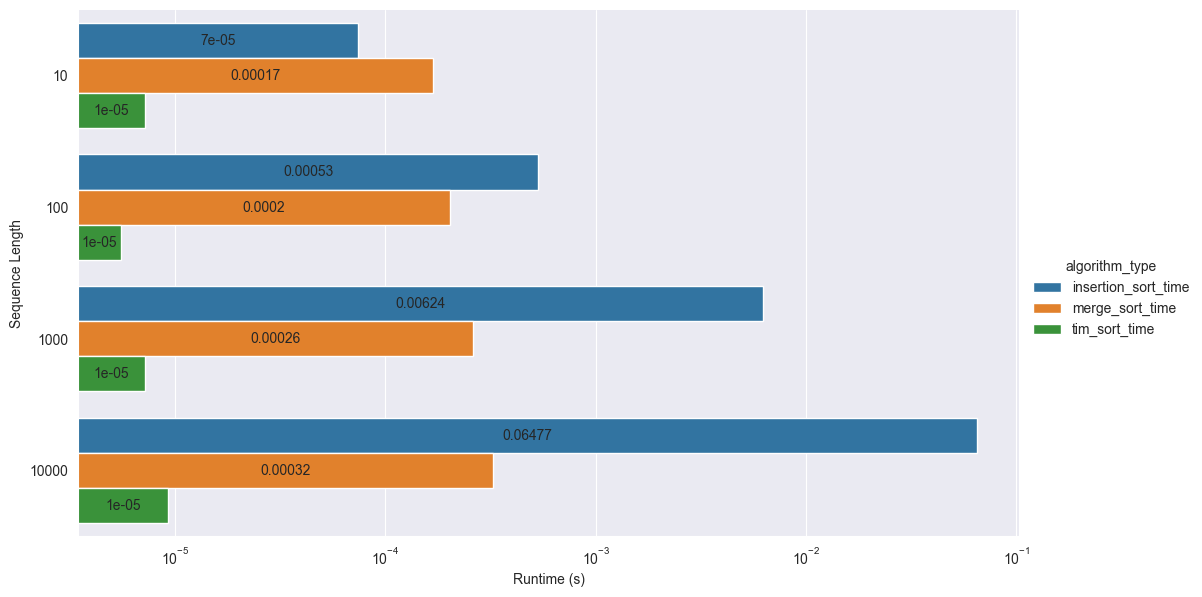
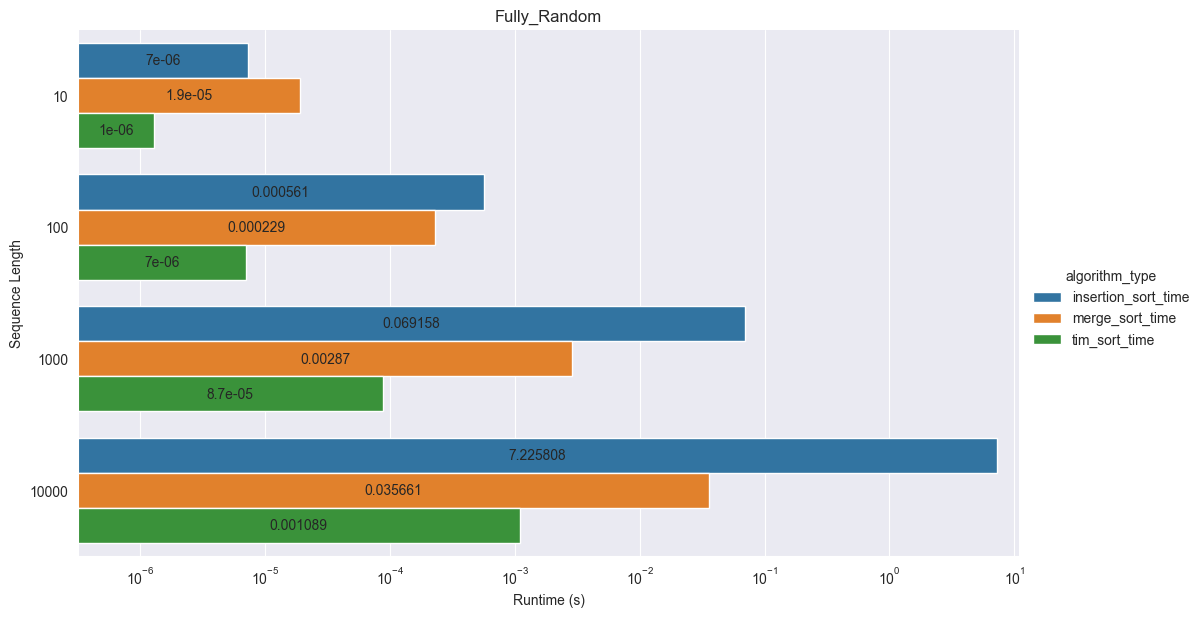
Runs

diff --git a/sorting/sorting.py b/sorting/sorting.py
@@ -29,6 +29,10 @@ def get_half_sorted_sequence(sequence_length: int, max_n: int):
     return random_quarter + sorted(random_quarter + random_quarter) + random_quarter
 
 
+def get_fully_sorted_sequence(sequence_length: int, max_n: int):
+    return sorted(get_fully_random_sequence(sequence_length=sequence_length, max_n=max_n))
+
+
 class SortingAlgorithm:
     def __init__(self, sequence: MutableSequence | None):
         self.sequence = sequence
@@ -213,7 +217,7 @@ class Experiment:
     def run_and_save_results_in_csv(self, file_name: str):
         today = datetime.datetime.today()
         results = self.iterate_over_different_sequence_length_results()
-        with open(f"results_insertion_merge/{file_name}_{today.date()}-{today.hour}-{today.minute}", "w",
+        with open(f"results_insertion_merge/{file_name}_{today.date()}-{today.hour}-{today.minute}.csv", "w",
                   newline="") as f:
             w = csv.writer(f)
             w.writerow(ExperimentResults._fields)
@@ -225,27 +229,6 @@ class Experiment:
 RANGE = list(10 ** i for i in range(1, 5))
 MAX_N = 1_000
 EXPERIMENT_NUMBER = 1_00
-
-# Experiment(
-#     experiment_sequence_length_range=RANGE,
-#     max_n=MAX_N,
-#     experiment_number=EXPERIMENT_NUMBER,
-#     generate_input_function=get_fully_random_sequence
-# ).run_and_save_results_in_csv("fully_random.csv")
-#
-# Experiment(
-#     experiment_sequence_length_range=RANGE,
-#     max_n=MAX_N,
-#     experiment_number=EXPERIMENT_NUMBER,
-#     generate_input_function=get_part_sorted_sequence
-# ).run_and_save_results_in_csv("part_sorted.csv")
-
-Experiment(
-    experiment_sequence_length_range=RANGE,
-    max_n=MAX_N,
-    experiment_number=EXPERIMENT_NUMBER,
-    generate_input_function=get_half_sorted_sequence
-).run_and_save_results_in_csv("half_sorted.csv")
 
 # Write on insertion and merge sort
 # Arnold C bonus

diff --git a/sorting/fully_random.py b/sorting/fully_random.py
@@ -1,0 +1,8 @@
+import sorting
+
+sorting.Experiment(
+    experiment_sequence_length_range=sorting.RANGE,
+    max_n=sorting.MAX_N,
+    experiment_number=sorting.EXPERIMENT_NUMBER,
+    generate_input_function=sorting.get_fully_random_sequence
+).run_and_save_results_in_csv("fully_random")

diff --git a/sorting/fully_sorted.py b/sorting/fully_sorted.py
@@ -1,0 +1,8 @@
+import sorting
+
+sorting.Experiment(
+    experiment_sequence_length_range=sorting.RANGE,
+    max_n=sorting.MAX_N,
+    experiment_number=sorting.EXPERIMENT_NUMBER,
+    generate_input_function=sorting.get_fully_sorted_sequence
+).run_and_save_results_in_csv("fully_sorted")

diff --git a/sorting/half_sorted.py b/sorting/half_sorted.py
@@ -1,0 +1,8 @@
+import sorting
+
+sorting.Experiment(
+    experiment_sequence_length_range=sorting.RANGE,
+    max_n=sorting.MAX_N,
+    experiment_number=sorting.EXPERIMENT_NUMBER,
+    generate_input_function=sorting.get_half_sorted_sequence
+).run_and_save_results_in_csv("half_sorted")

diff --git a/sorting/part_sorted.py b/sorting/part_sorted.py
@@ -1,0 +1,8 @@
+import sorting
+
+sorting.Experiment(
+    experiment_sequence_length_range=sorting.RANGE,
+    max_n=sorting.MAX_N,
+    experiment_number=sorting.EXPERIMENT_NUMBER,
+    generate_input_function=sorting.get_part_sorted_sequence
+).run_and_save_results_in_csv("part_sorted")

diff --git a/sorting/raport/raport.md b/sorting/raport/raport.md
@@ -4,57 +4,115 @@ Kuba Czech | Adam Wilczyński
 
 ## Algorithm Description
 
-### Selection Sort
+### Insertion Sort
 
-...
+This algorithm iterates over all elements in a list and for each element (starting from left) looks for suitable place in a sorted part of this array (on the left of current element). Algorithm is very similar to the way people sort playing cards.
 
 #### Worst Case
 
+Numbers are sorted, but from greatest to the smallest (decreasing order - maximum number of operations will be performed)
+
 #### Average Case
+
+Complexity is O(n^2)
 
 #### Best Case
 
+Numbers are sorted in an ascending way (complexity is linear - O(n), only comparisons are performed )
+
 #### Practical Applications
+
+Even though insertion sort is not optimal (because of time complexity), it is practical for almost sorted arrays of numbers, then only unsorted parts of array are changed. Its another advantage is simplicity and pretty good performance for smaller lists. Algorithm is stable and in place.
 
 ### Merge Sort
 
-...
+This algorithm uses recurrence to divide array into one-element sets, then all one-element sets are merged together. Merging works as follows: there are two arrays (both sorted, also singular elements count as sorted list), then we compare first elements elements of those two arrays, the smaller goes first and we move one place to the right in the array from which the element has been selected. We repeat this process until all elements from both lists are merged. Then we merge next two lists until every element from starting list is sorted.
+
+#### Worst Case, Average Case, Best Case
+
+No matter how sorted or chaotic is an array of numbers, time complexity is always O(n log n) - array is divided in subparts, then merged (order of numbers doesn’t matter). Because of that there are no best or worst case scenario.
+
+#### Practical Applications
+
+Merge sort is more efficient than for example insertion sort or selection sort. However, it is a bit more complex algorithm than insertion sort, especially because recursion is used. Algorithm is stable, but not in place, so some additional memory is needed.
+
+### Tim Sort
+
+Tim sort is Python's builtin adaptive sorting algorithm implemented in C.
+We have decided to incorporate it in our research in order to compare its raise of complexity to sorting functions written in pure Python.
 
 #### Worst Case
 
+Fully random sequence.
+
 #### Average Case
+
+O(n * log n)
 
 #### Best Case
 
-#### Practical Applications
+Operates in linear O(n) time given already sorted sequence.
 
 ## Experiment Description
 
 ### Generating Test Data
 
+
+```python
+def get_fully_random_sequence(sequence_length: int, max_n: int):
+    return [random.randint(1, max_n) for _ in range(sequence_length)]
+
+def get_part_sorted_sequence(sequence_length: int, max_n: int):
+    s = get_fully_random_sequence(sequence_length=sequence_length, max_n=max_n)
+    number_of_sorts = random.randrange(sequence_length)
+    start = 0
+    for _ in range(number_of_sorts):
+        end = random.randint(start, min(start + sequence_length // number_of_sorts, sequence_length))
+        s = s[:start] + sorted(s[start:end]) + s[end:]
+        start += sequence_length // number_of_sorts
+    return s
+
+def get_half_sorted_sequence(sequence_length: int, max_n: int):
+    random_quarter = get_fully_random_sequence(sequence_length // 4, max_n)
+    return random_quarter + sorted(random_quarter + random_quarter) + random_quarter
+```
+
 ### Libraries Used
+
+pandas, matplotlib, seaborn
 
 ## Experiment Results
 
-### Fully Random Input
-<img src="experiment_visuals/fully_random.png" alt="Fully Random" height=350>
+Graphs below show a positive correlation between chaos and time spent on sorting a sequence.
 
-### Part Sorted Input (Random parts of sequence are in sorted order of random length)
-<img src="experiment_visuals/part_sorted.png" alt="Part Sorted" height=350>
+### Fully Sorted Input
+<img src="experiment_visuals/fully_sorted.png" alt="Fully Sorted" height=400>
 
 ### Half Sorted Input (The sequence consists of half sequence sorted preceded and followed by unsorted quarter)
-<img src="experiment_visuals/half_sorted.png" alt="Half Sorted" height=350>
+<img src="experiment_visuals/half_sorted.png" alt="Half Sorted" height=400>
 
-### Selection Sort
+### Part Sorted Input (Random length parts of sequence are sorted)
+<img src="experiment_visuals/part_sorted.png" alt="Part Sorted" height=400>
+
+### Fully Random Input
+<img src="experiment_visuals/fully_random.png" alt="Fully Random" height=400>
+
+## Conclusions
+
+### Insertion Sort
 
 #### Measured Complexity
+
+Ranging between O(n) in best case to O(n log n)
 
 ### Merge Sort
 
 #### Measured Complexity
 
+Close to O(n log n)
+
 ### Tim Sort
 
 #### Measured Complexity
 
-## Conclusions
+
